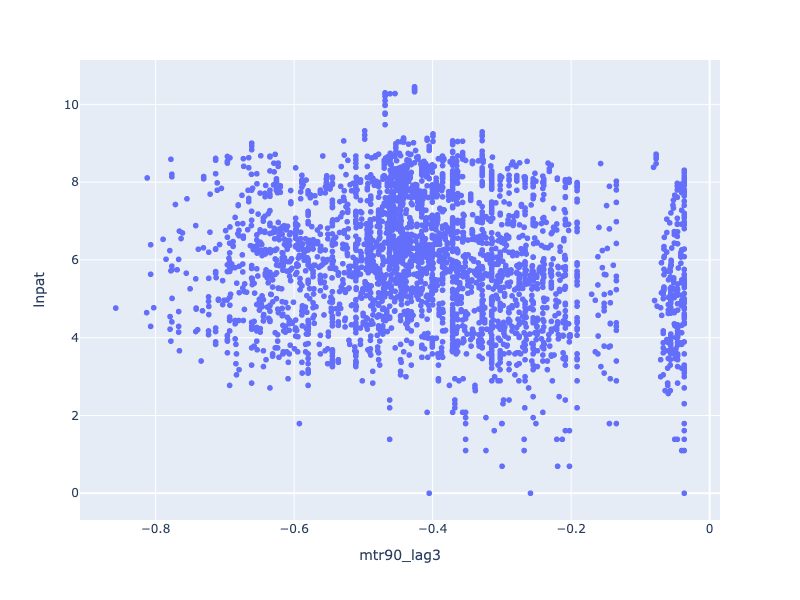
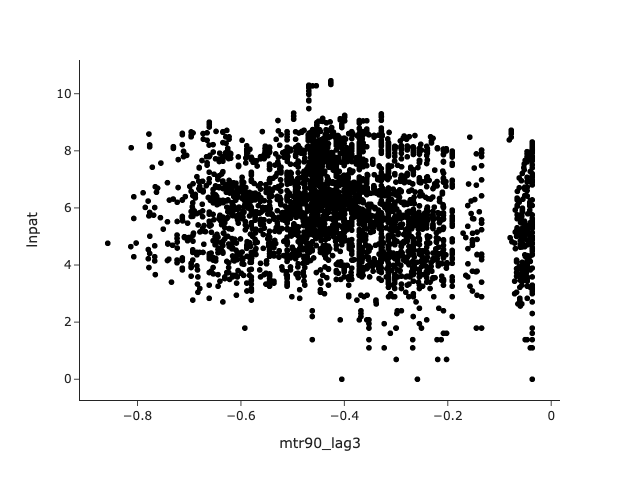
chore: nicer plots and add changelog (#36)
* Template and Remove Layout

* Use simpler template

* Update changelog

* Minimal plot style

* Update style in examples

* Smaller plots in README

* Add grid lines

* Make plots minimal

* Use absolute paths in REAdme

diff --git a/scripts/replicate_binscatter/make_plots.py b/scripts/replicate_binscatter/make_plots.py
@@ -64,8 +64,13 @@ p_scatter = px.scatter(
     df.select("mtr90_lag3", "lnpat"),
     x="mtr90_lag3",
     y="lnpat",
+    template="simple_white",
+    color_discrete_sequence=["black"],
+    labels={"x": "mtr90_lag3", "y": "lnpat"},
 )
-p_scatter.write_image(assets_dir / "scatter.png", width=800, height=600)
+# Hide the single-trace legend for cleaner screenshots.
+p_scatter.update_layout(showlegend=False)
+p_scatter.write_image(assets_dir / "scatter.png", width=640, height=480)
 # %%
 p_binscatter = binscatter(
     df,
@@ -73,7 +78,7 @@ p_binscatter = binscatter(
     "lnpat",
     num_bins=20,
 )
-p_binscatter.write_image(assets_dir / "binscatter_bare.png", width=800, height=600)
+p_binscatter.write_image(assets_dir / "binscatter_bare.png", width=640, height=480)
 # %%
 df = df.with_columns(pl.col("statenum", "year").cast(pl.String))
 # Capture all binscatter logs into artifacts/binscatter.log
@@ -99,6 +104,6 @@ p_binscatter_controls.show()
 logging.shutdown()
 
 p_binscatter_controls.write_image(
-    assets_dir / "binscatter_controls.png", width=800, height=600
+    assets_dir / "binscatter_controls.png", width=640, height=480
 )
 # %%

diff --git a/src/binscatter/core.py b/src/binscatter/core.py
@@ -317,11 +317,12 @@ def make_plot_plotly(
         "x": x,
         "y": y,
         "range_x": padded_range_x,
-        "title": "Binscatter",
         "labels": {
             "x": profile.x_name,
             "y": profile.y_name,
         },
+        "template": "simple_white",
+        "color_discrete_sequence": ["black"],
     }
     for k in kwargs_binscatter:
         if k in ("x", "y", "range_x"):

diff --git a/CHANGELOG.md b/CHANGELOG.md
@@ -1,0 +1,22 @@
+# Changelog
+
+## Unreleased
+
+### Added
+- Ensure the Plotly-based binscatter output always applies the ``simple_white`` template so figures look consistent across environments.
+- Document feature additions and template tweak in CHANGELOG.
+- Automatic rule-of-thumb bin selection for the canonical binscatter implementation.
+- Enforcement of keyword-only arguments for ``binscatter`` to avoid positional mistakes.
+- Plotly-friendly x-axis padding to keep the rightmost point away from the edge.
+- CI workflow plus optional PySpark tests, enabling PR checks.
+- ``just`` targets for lint, test, and plot replication, and README documentation improvements.
+
+### Changed
+- Refactored the control/partialling pipeline into smaller helpers and improved validation.
+- Switched regression data cleaning to use ``drop_nulls``.
+- Updated README metadata and clarified usage examples.
+- Added optional slow-test opt-in gate.
+
+## 0.1.0
+
+- Initial release.

diff --git a/README.md b/README.md
@@ -23,7 +23,7 @@ pip install binscatter
 
 Lets say we made this noisy scatterplot:
 
-![Noisy scatterplot](/images/readme/scatter.png)
+<img src="images/readme/scatter.png" alt="Noisy scatterplot" width="640" />
 
 This is how we make a nice binscatter plot instead, controlling for a set of features:
 
@@ -47,7 +47,7 @@ binscatter(
 )
 ```
 
-![Binscatter](/images/readme/binscatter_controls.png)
+<img src="images/readme/binscatter_controls.png" alt="Binscatter" width="640" />
 
 This package implements binscatter plots following:
 
